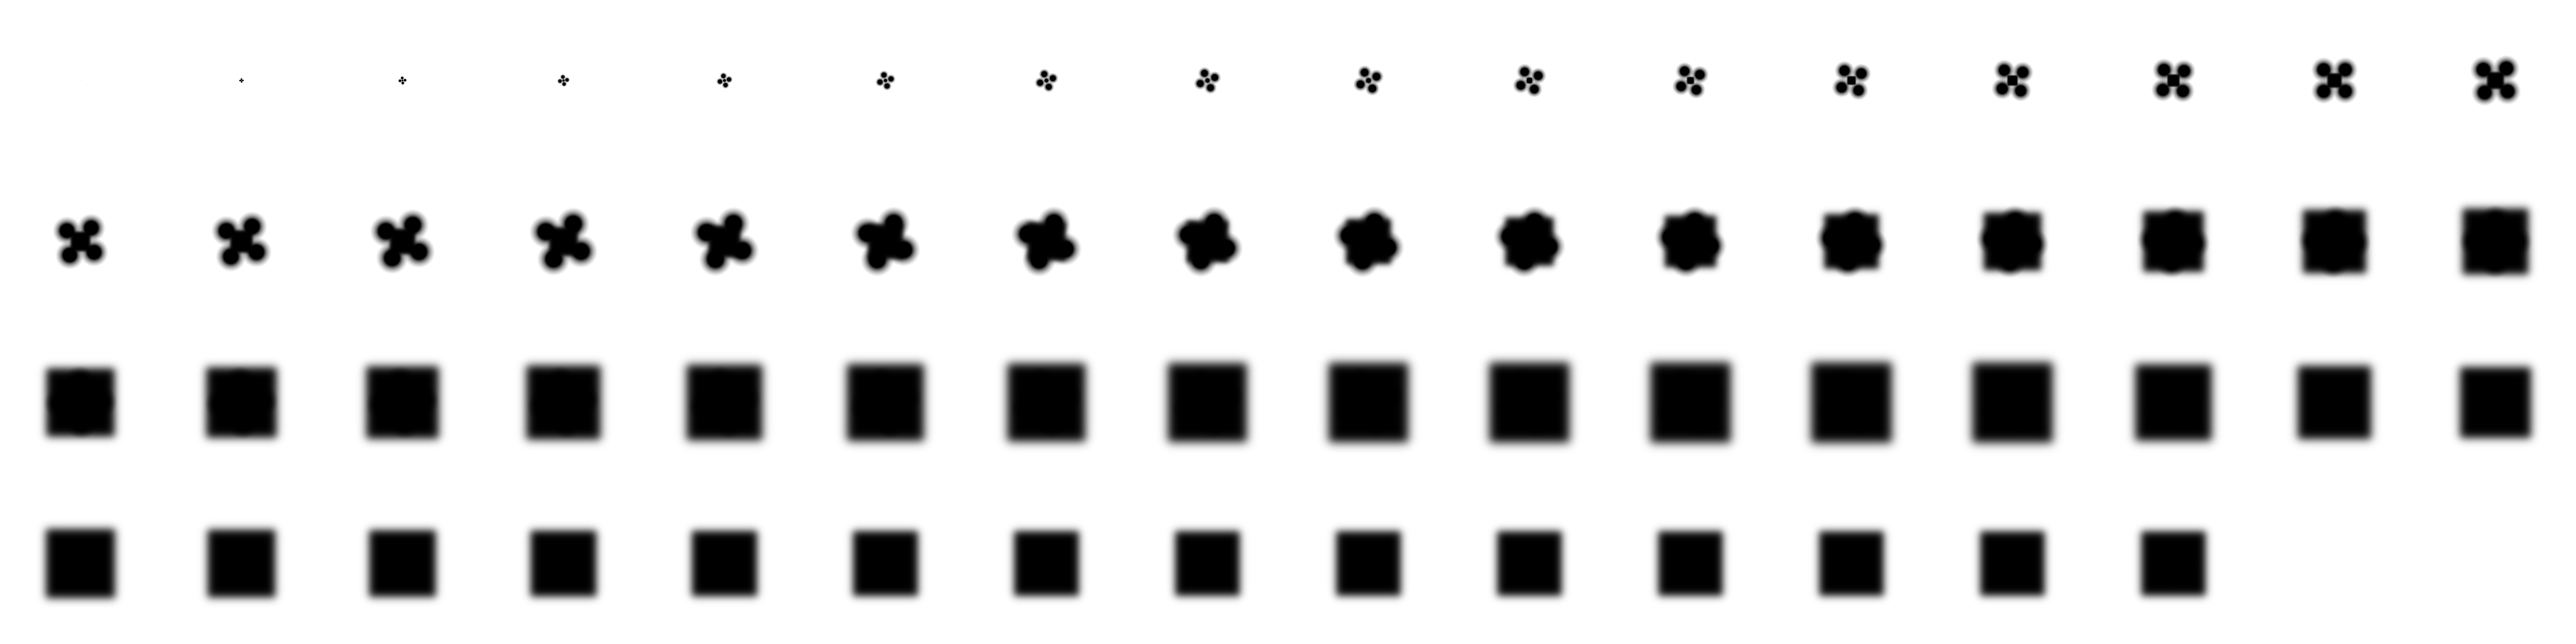
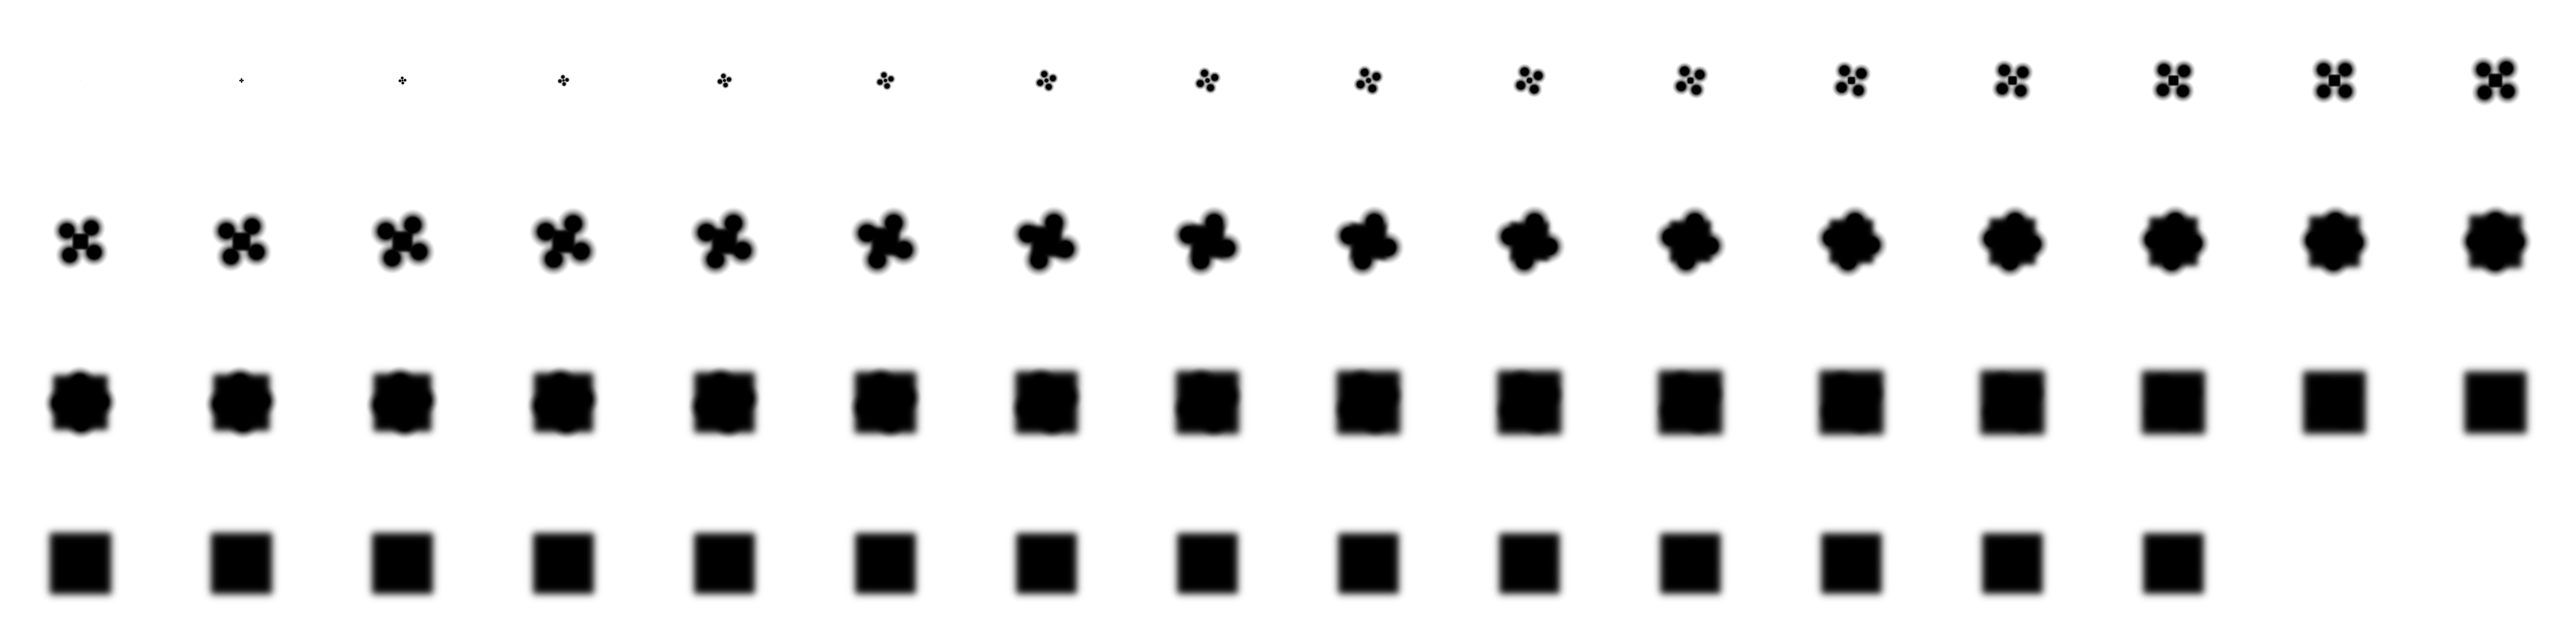
small tweaks

diff --git a/src/com/wuballiance/ld33/MenuManager.java b/src/com/wuballiance/ld33/MenuManager.java
@@ -163,7 +163,7 @@ public class MenuManager {
 
 	public static float getOpacity(HvlComponent component){
 		if(!opacity.containsKey(component)) opacity.put(component, 0f);
-		return Math.min(Math.max(opacity.get(component), Math.min(HvlMenu.getCurrent().getTotalTime()/2f, 0.6f)), 1 - menuDecay) - (float)Math.pow(Main.getZoom(), 0.2f);
+		return Math.min(Math.max(opacity.get(component), Math.min(HvlMenu.getCurrent().getTotalTime()/2f, 0.5f)), 1 - menuDecay) - (float)Math.pow(Main.getZoom(), 0.2f);
 	}
 
 	public static HvlAction1<HvlButton> getMenuLink(final HvlMenu menu){

diff --git a/src/com/wuballiance/ld33/Main.java b/src/com/wuballiance/ld33/Main.java
@@ -47,7 +47,7 @@ public class Main extends HvlTemplateInteg2D {
 		
 		HvlTilemapCollisionUtil.registerCornerSet(25, 26, 33, 34);
 
-		getTextureLoader().loadResource("Tilesheet");
+		getTextureLoader().loadResource("TilesheetBlur");
 		getTextureLoader().loadResource("Font");
 		getTextureLoader().loadResource("Player1");
 		getTextureLoader().loadResource("Player2");
